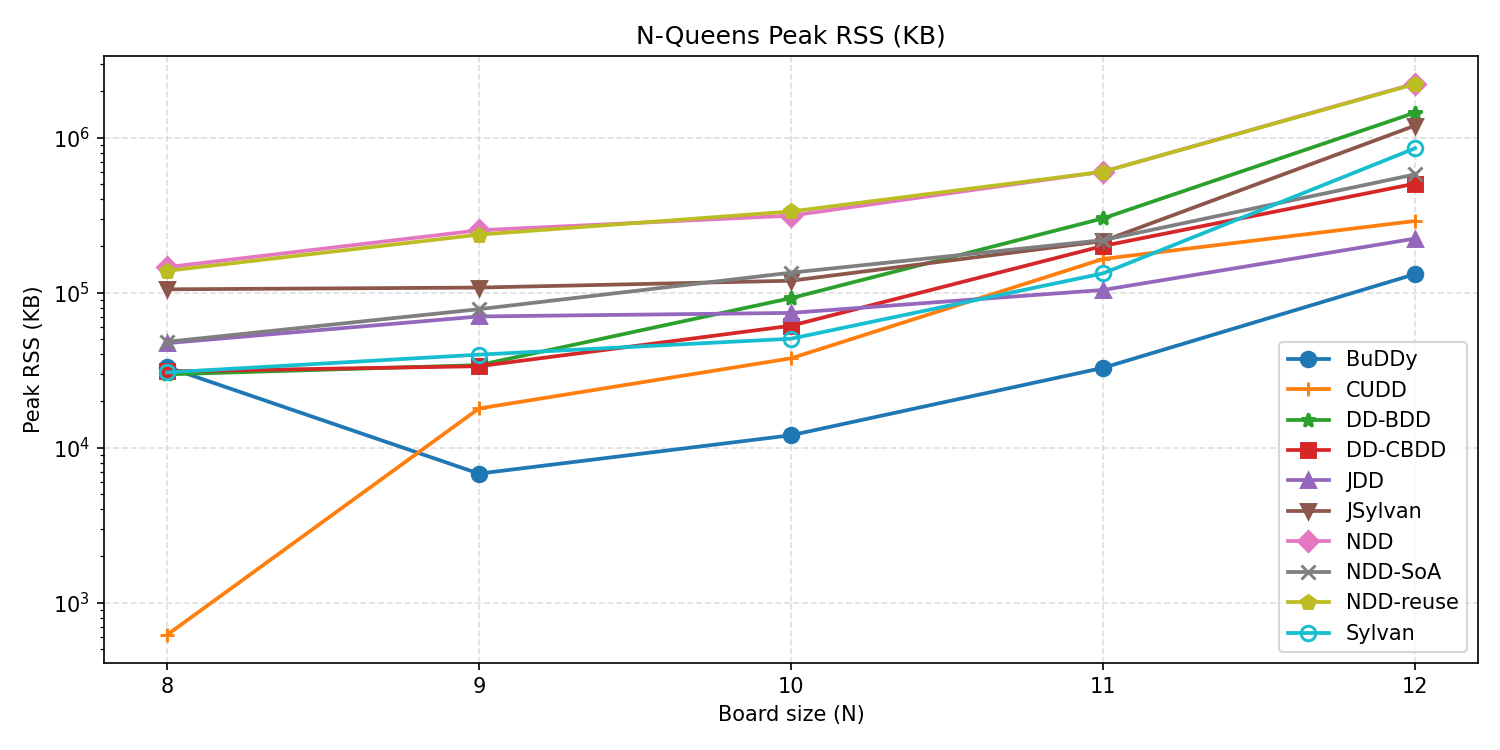
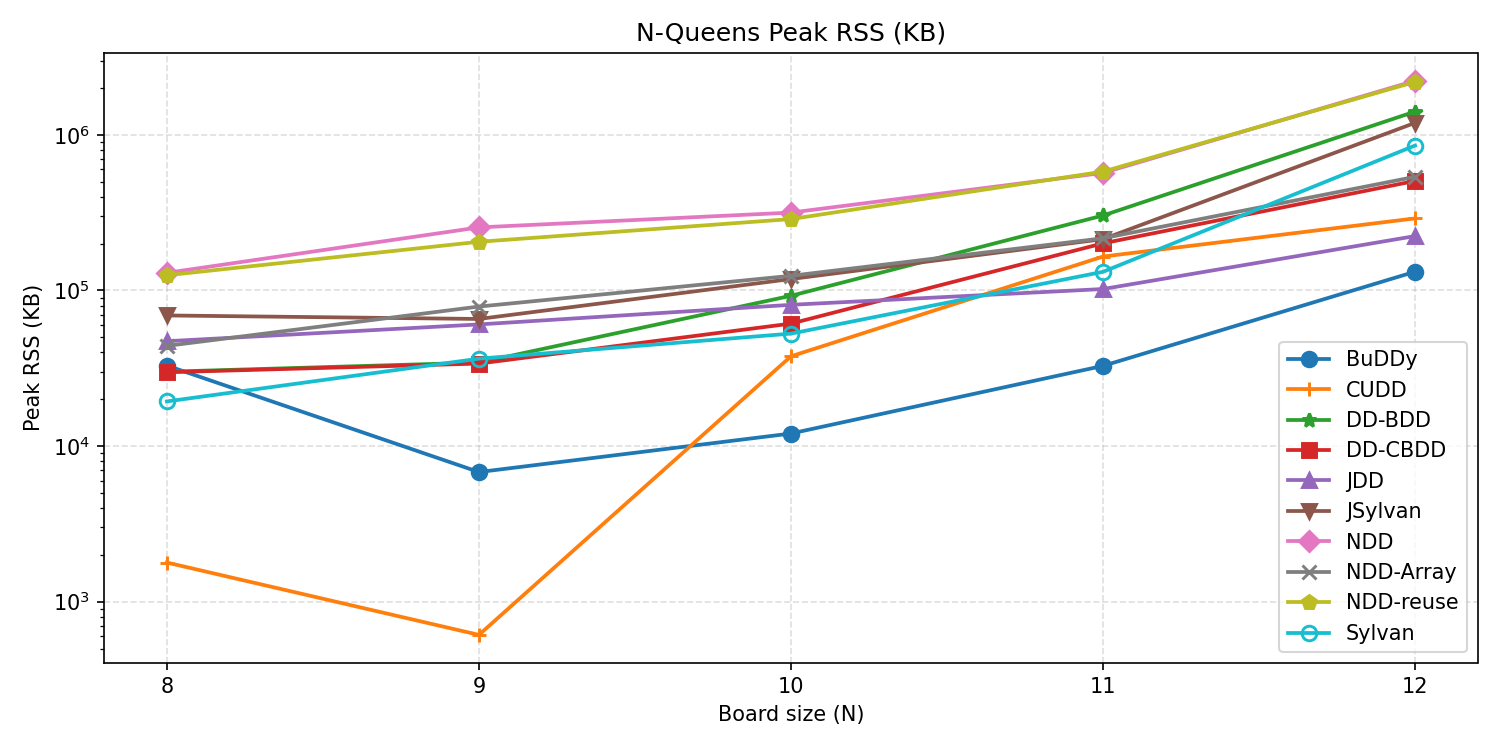
Array (#10) (#11)
* rename NDD-SoA to NDD-Array and note Sylvan parallelism

* bench: refresh metrics, regenerate plots, sync docs

diff --git a/results/SRE-results.md b/results/SRE-results.md
@@ -8,7 +8,7 @@ Timeout per variant: 14400s
 | bdd | 0.199032349 | 0.697075224 | 169.6MB | 440 | 79270 |
 | ndd | 0.21296372 | 0.697194453 | 217.7MB | 440 | 51649 |
 | ndd-reuse | 0.197991385 | 0.713181288 | 224.9MB | 440 | 44314 |
-| ndd-soa | 0.171329424 | 0.63580931 | 199.1MB | 440 | 40247 |
+| ndd-array | 0.171329424 | 0.63580931 | 199.1MB | 440 | 40247 |
 
 ## dataset=bgp_fattree04, MF=2
 
@@ -17,7 +17,7 @@ Timeout per variant: 14400s
 | bdd | 0.065175369 | 0.507610428 | 102.0MB | 0 | 24968 |
 | ndd | 0.064452769 | 0.49972476 | 101.9MB | 0 | 27377 |
 | ndd-reuse | 0.068398852 | 0.502337077 | 105.4MB | 0 | 27303 |
-| ndd-soa | 0.057704146 | 0.513184718 | 100.6MB | 0 | 27390 |
+| ndd-array | 0.057704146 | 0.513184718 | 100.6MB | 0 | 27390 |
 
 ## dataset=bgp_fattree04, MF=3
 
@@ -26,7 +26,7 @@ Timeout per variant: 14400s
 | bdd | 0.055806707 | 0.454624987 | 101.5MB | 0 | 25848 |
 | ndd | 0.068548047 | 0.48734762 | 100.7MB | 0 | 27959 |
 | ndd-reuse | 0.091853088 | 0.538464628 | 104.8MB | 0 | 27878 |
-| ndd-soa | 0.055611648 | 0.48926326 | 100.9MB | 0 | 28030 |
+| ndd-array | 0.055611648 | 0.48926326 | 100.9MB | 0 | 28030 |
 
 ## dataset=bgp_fattree08, MF=1
 
@@ -35,7 +35,7 @@ Timeout per variant: 14400s
 | bdd | 3.536388235 | 6.964977256 | 2250.7MB | 7392 | 3263633 |
 | ndd | 2.906284374 | 5.032310009 | 1905.2MB | 7392 | 1762586 |
 | ndd-reuse | 2.507999037 | 4.298852012 | 1346.0MB | 7392 | 367425 |
-| ndd-soa | 1.343077991 | 2.69453103 | 772.5MB | 7392 | 278912 |
+| ndd-array | 1.343077991 | 2.69453103 | 772.5MB | 7392 | 278912 |
 
 ## dataset=bgp_fattree08, MF=2
 
@@ -44,7 +44,7 @@ Timeout per variant: 14400s
 | bdd | 13.817159752 | 22.919905736 | 2841.0MB | 16517 | 19077038 |
 | ndd | 12.874106714 | 17.149181016 | 2925.5MB | 16517 | 9250004 |
 | ndd-reuse | 11.126410978 | 14.873414161 | 2353.5MB | 16517 | 860612 |
-| ndd-soa | 4.682225155 | 6.785026264 | 1361.5MB | 16517 | 731104 |
+| ndd-array | 4.682225155 | 6.785026264 | 1361.5MB | 16517 | 731104 |
 
 ## dataset=bgp_fattree08, MF=3
 
@@ -53,7 +53,7 @@ Timeout per variant: 14400s
 | bdd | 68.323042703 | 103.809460087 | 3749.2MB | 31436 | 85595315 |
 | ndd | 51.713371101 | 60.828954399 | 4220.4MB | 31436 | 38199434 |
 | ndd-reuse | 46.234172397 | 55.413865268 | 3441.0MB | 31436 | 3546018 |
-| ndd-soa | 21.05702101 | 25.602449596 | 2046.0MB | 31436 | 3208829 |
+| ndd-array | 21.05702101 | 25.602449596 | 2046.0MB | 31436 | 3208829 |
 
 ## dataset=bgp_fattree12, MF=1
 
@@ -62,7 +62,7 @@ Timeout per variant: 14400s
 | bdd | 99.783163339 | 141.636128202 | 22220.5MB | 37944 | 57000492 |
 | ndd | 27.687420029 | 45.079233791 | 13093.6MB | 37944 | 25421970 |
 | ndd-reuse | 15.892849041 | 32.499337508 | 13185.6MB | 37944 | 3284649 |
-| ndd-soa | 8.801349052 | 22.166407239 | 13016.2MB | 37944 | 2065690 |
+| ndd-array | 8.801349052 | 22.166407239 | 13016.2MB | 37944 | 2065690 |
 
 ## dataset=bgp_fattree12, MF=2
 
@@ -71,7 +71,7 @@ Timeout per variant: 14400s
 | bdd | 385.496728907 | 507.192693855 | 27242.9MB | 85192 | 404400659 |
 | ndd | 135.42850768 | 166.342765035 | 19750.4MB | 85192 | 156330370 |
 | ndd-reuse | 82.505692639 | 113.480130675 | 18459.1MB | 85192 | 14912726 |
-| ndd-soa | 39.67628597 | 58.258226109 | 14241.1MB | 85192 | 13756762 |
+| ndd-array | 39.67628597 | 58.258226109 | 14241.1MB | 85192 | 13756762 |
 
 ## dataset=bgp_fattree12, MF=3
 
@@ -80,7 +80,7 @@ Timeout per variant: 14400s
 | bdd | 1373.223894428 | 2350.774409071 | 29826.8MB | 163130 | 1539299055 |
 | ndd | 544.870183665 | 636.086437962 | 26274.3MB | 163130 | 645702063 |
 | ndd-reuse | 340.786929547 | 406.649415653 | 30967.7MB | 163130 | 81710193 |
-| ndd-soa | 196.264904096 | 230.905827854 | 18113.7MB | 163130 | 61386922 |
+| ndd-array | 196.264904096 | 230.905827854 | 18113.7MB | 163130 | 61386922 |
 
 ## dataset=bgp_fattree16, MF=1
 
@@ -89,7 +89,7 @@ Timeout per variant: 14400s
 | bdd | 950.022085188 | 1126.586307379 | 30921.9MB | 115904 | 558517731 |
 | ndd | 140.662066441 | 186.545315128 | 20992.3MB | 115904 | 192411499 |
 | ndd-reuse | 91.122479242 | 135.368235883 | 21377.9MB | 115904 | 20316876 |
-| ndd-soa | 48.776411429 | 76.189433182 | 17331.0MB | 115904 | 15689306 |
+| ndd-array | 48.776411429 | 76.189433182 | 17331.0MB | 115904 | 15689306 |
 
 ## dataset=bgp_fattree16, MF=2
 
@@ -98,7 +98,7 @@ Timeout per variant: 14400s
 | bdd | >14400s | >14400s | N/A | N/A | N/A | timeout>14400s |
 | ndd | 1066.502401085 | 1178.287171806 | 34679.7MB | 256246 | 1437319312 |
 | ndd-reuse | 605.394118373 | 721.51310894 | 32638.6MB | 256246 | 179729273 |
-| ndd-soa | 402.775790136 | 472.056353484 | 22359.3MB | 256246 | 164723549 |
+| ndd-array | 402.775790136 | 472.056353484 | 22359.3MB | 256246 | 164723549 |
 
 ## dataset=bgp_fattree16, MF=3
 
@@ -107,7 +107,7 @@ Timeout per variant: 14400s
 | bdd | >14400s | >14400s | N/A | N/A | N/A |
 | ndd | 7012.950610834 | 7345.012811346 | 69471.1MB | 484951 | 3401452892 |
 | ndd-reuse | 3388.764826264 | 3722.195997192 | 64700.5MB | 484951 | 1982221370 |
-| ndd-soa | 2159.542173304 | 2367.636974608 | 41078.4MB | 484951 | 1572775889 |
+| ndd-array | 2159.542173304 | 2367.636974608 | 41078.4MB | 484951 | 1572775889 |
 
 ## dataset=bgp_fattree20, MF=1
 
@@ -116,7 +116,7 @@ Timeout per variant: 14400s
 | bdd | >14400s | >14400s | N/A | N/A | N/A |
 | ndd | 769.798916337 | 898.226961354 | 34475.4MB | 289400 | 1003083901 |
 | ndd-reuse | 404.179502731 | 517.479194306 | 34536.3MB | 289400 | 105961803 |
-| ndd-soa | 279.78942101 | 386.704613504 | 33879.4MB | 289400 | 94553481 |
+| ndd-array | 279.78942101 | 386.704613504 | 33879.4MB | 289400 | 94553481 |
 
 ## dataset=bgp_fattree20, MF=2
 
@@ -125,7 +125,7 @@ Timeout per variant: 14400s
 | bdd | >14400s | >14400s | N/A | N/A | N/A |
 | ndd | 6926.554867672 | 7356.703514343 | 69615.5MB | 644962 | 4356705616 |
 | ndd-reuse | 3480.311607732 | 3836.447385128 | 65522.6MB | 644962 | 1583507510 |
-| ndd-soa | 2462.811439699 | 2697.611333916 | 53784.7MB | 644962 | 1531851671 |
+| ndd-array | 2462.811439699 | 2697.611333916 | 53784.7MB | 644962 | 1531851671 |
 
 ## dataset=bgp_fattree20, MF=3
 
@@ -134,4 +134,4 @@ Timeout per variant: 14400s
 | bdd | >14400s | >14400s | N/A | N/A | N/A |
 | ndd | >14400s | >14400s | N/A | N/A | N/A | 
 | ndd-reuse | >14400s | >14400s | N/A | N/A | N/A | 
-| ndd-soa | >14400s | >14400s | N/A | N/A | N/A | 
+| ndd-array | >14400s | >14400s | N/A | N/A | N/A | 

diff --git a/README.md b/README.md
@@ -1,6 +1,6 @@
-# NDD-SoA
+# NDD-Array
 
-`NDD-SoA` is a performance-oriented branch of **Network Decision Diagram (NDD)**. It keeps the original NDD idea and benchmark targets, but replaces the object-heavy internal representation with a structure-of-arrays layout and a shared edge-collection stack so the hot path allocates less and reuses more.
+`NDD-Array` is a performance-oriented branch of **Network Decision Diagram (NDD)**. It keeps the original NDD idea and benchmark targets, but replaces the object-heavy internal representation with a structure-of-arrays layout and a shared edge-collection stack so the hot path allocates less and reuses more.
 
 This tree is prepared as the optimized branch snapshot for upstreaming back into `NDD`. The original paper is: [NDD: A Decision Diagram for Network Verification](https://xjtu-netverify.github.io/papers/NDD/NDD-final-version.pdf), NSDI 2025.
 
@@ -20,7 +20,7 @@ The benchmark results in this repository use the following names:
 | --- | --- |
 | `ndd` | Original object-based NDD baseline |
 | `ndd-reuse` | Baseline NDD plus shared-BDD-variable reuse |
-| `ndd-soa` | The version in this repository: reuse + global edge stack + SoA node table |
+| `ndd-array` | The version in this repository: reuse + global edge stack + SoA node table |
 
 ## Repository Layout
 
@@ -71,13 +71,15 @@ For the `JavaNDD` factory-style API, see [`wiki/Usage.md`](wiki/Usage.md) and [`
 
 ### NQueens
 
-Compared with the original `NDD` baseline, `NDD-SoA` keeps the same solution counts while reducing runtime and memory use on the tested Java NQueens workload:
+Compared with the original `NDD` baseline, `NDD-Array` keeps the same solution counts while reducing runtime and memory use on the tested Java NQueens workload:
 
-| Size | NDD time (s) | NDD-SoA time (s) | Speedup | NDD max RSS (KB) | NDD-SoA max RSS (KB) | RSS reduction |
+| Size | NDD time (s) | NDD-Array time (s) | Speedup | NDD max RSS (KB) | NDD-Array max RSS (KB) | RSS reduction |
 | --- | ---: | ---: | ---: | ---: | ---: | ---: |
-| 10 | 0.744 | 0.221 | 3.37x | 314148 | 134680 | 57.1% |
-| 11 | 2.835 | 0.792 | 3.58x | 603572 | 218416 | 63.8% |
-| 12 | 14.821 | 4.353 | 3.40x | 2233308 | 579796 | 74.0% |
+| 10 | 0.732 | 0.214 | 3.42x | 316372 | 124168 | 60.8% |
+| 11 | 2.750 | 0.762 | 3.61x | 568980 | 216364 | 62.0% |
+| 12 | 14.605 | 4.101 | 3.56x | 2226480 | 537192 | 75.9% |
+
+`Sylvan` and `JSylvan` in the full NQueens table are parallel BDD libraries run with 48 worker threads; all other implementations (including `NDD`, `NDD-reuse`, and `NDD-Array`) are single-threaded.
 
 Detailed tables and plots: [`wiki/Results-NQueens.md`](wiki/Results-NQueens.md)
 
@@ -85,7 +87,7 @@ Detailed tables and plots: [`wiki/Results-NQueens.md`](wiki/Results-NQueens.md)
 
 On the SRE benchmark set, the SoA implementation consistently improves over the original `ndd` variant on medium and large cases:
 
-| Dataset | Metric | NDD | NDD-SoA | Improvement |
+| Dataset | Metric | NDD | NDD-Array | Improvement |
 | --- | --- | ---: | ---: | ---: |
 | `bgp_fattree08`, `MF=3` | total time (s) | 60.829 | 25.602 | 2.38x faster |
 | `bgp_fattree08`, `MF=3` | peak RSS (MB) | 4220.4 | 2046.0 | 51.5% lower |
